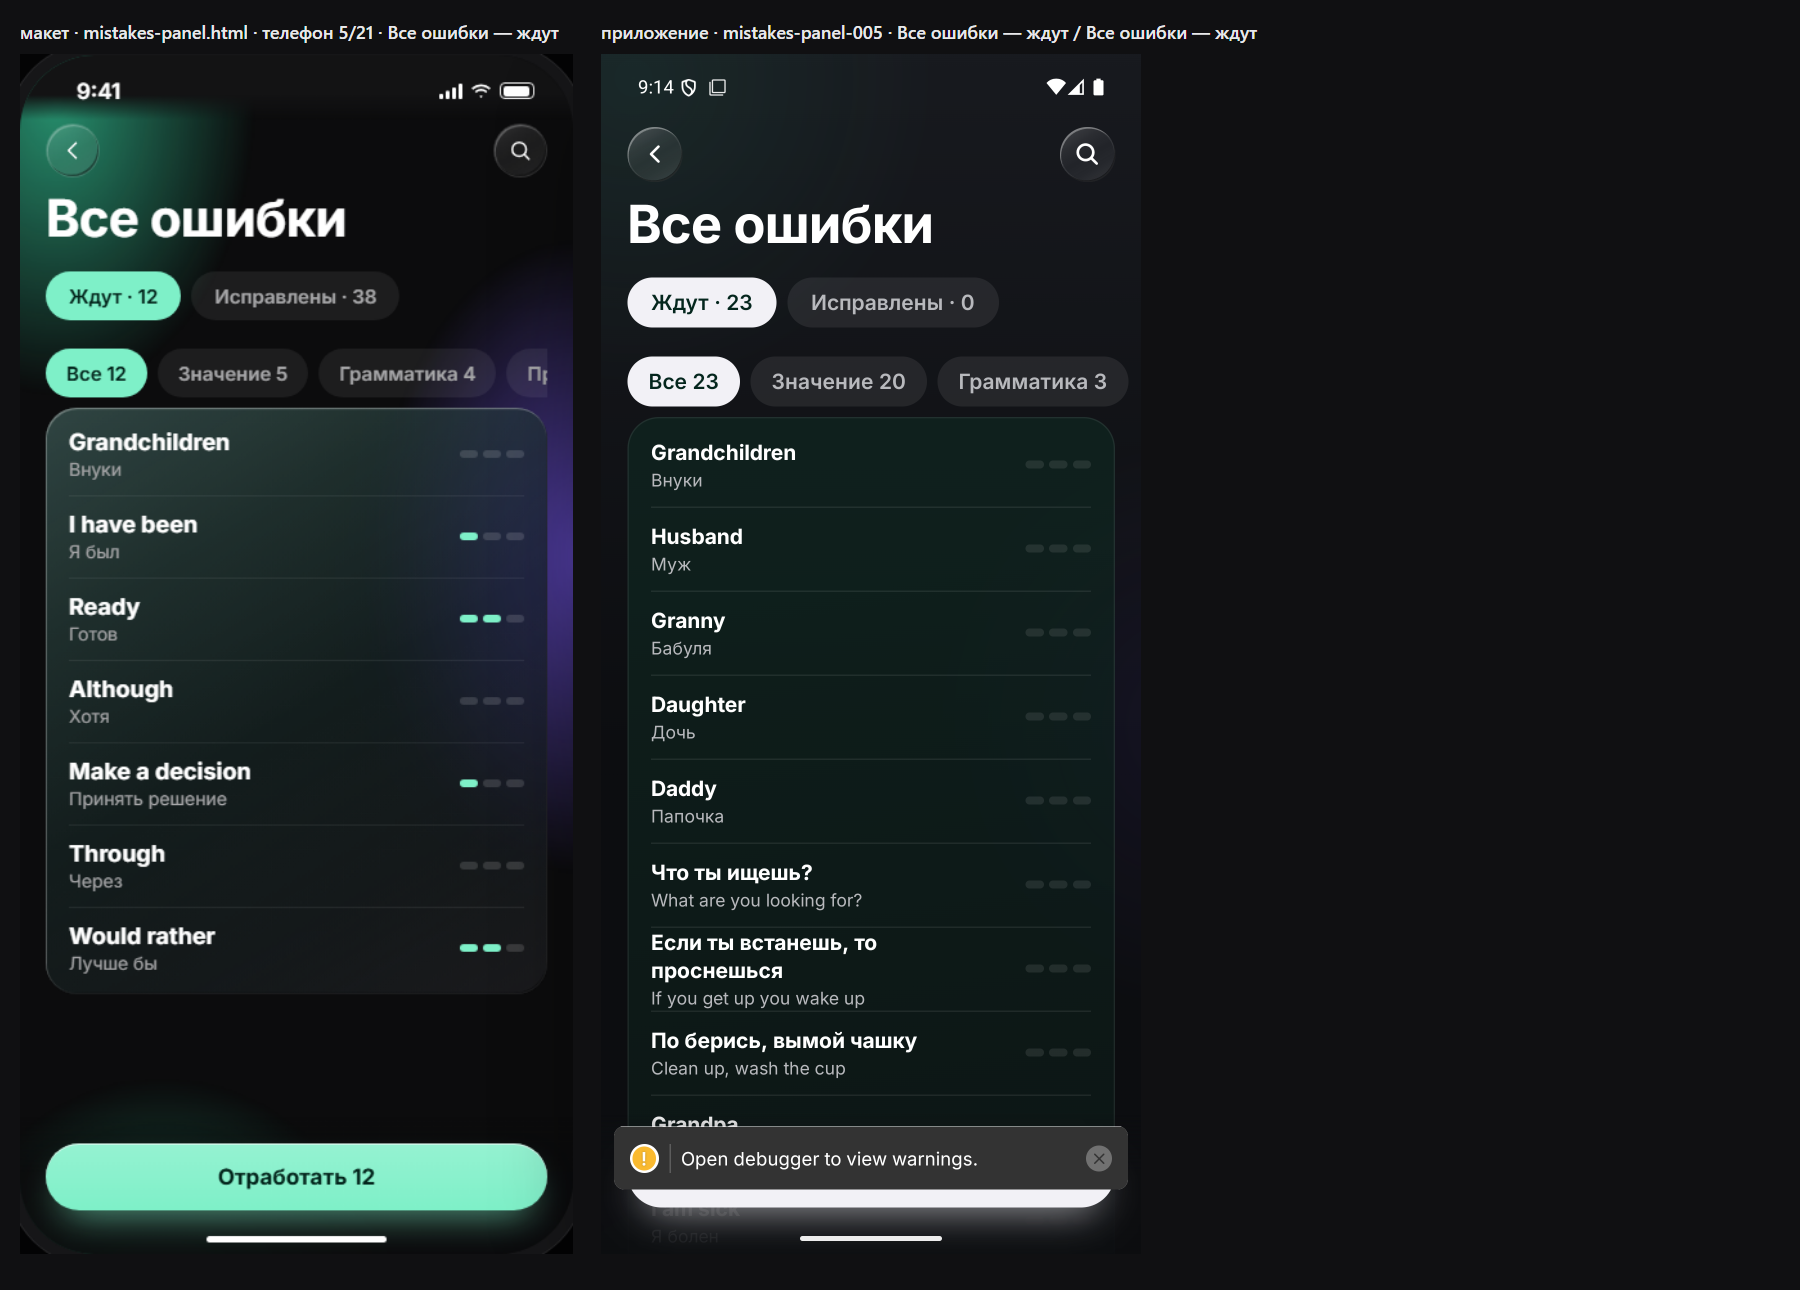
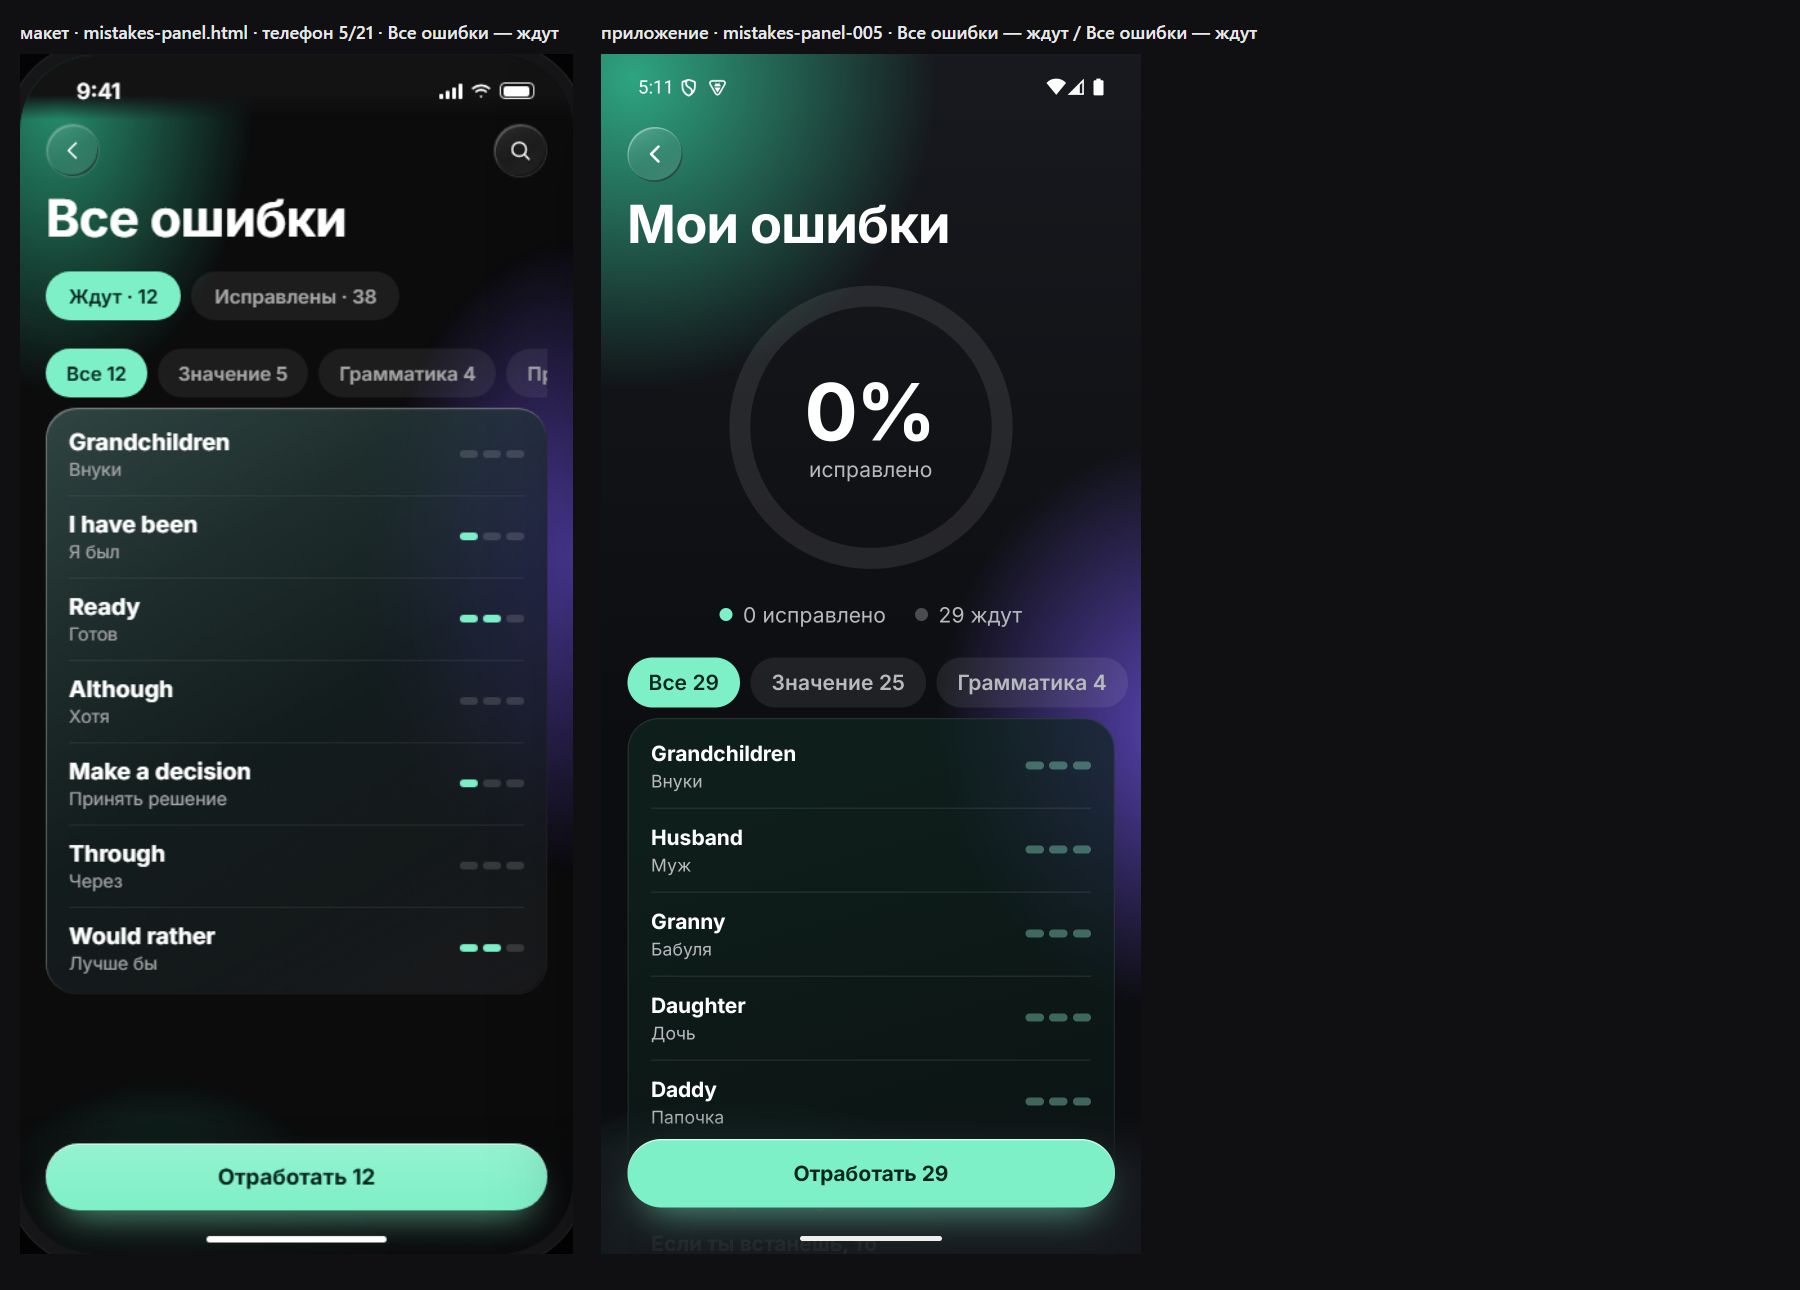
docs(parity): mistakes-panel-005 — экран «Все ошибки» не найден; опечатка в данных

diff --git a/docs/phraseman-2.0/INBOX_COORDINATOR_FROM_SVERKA.md b/docs/phraseman-2.0/INBOX_COORDINATOR_FROM_SVERKA.md
@@ -671,3 +671,8 @@ cards-section-032 после 1d993b5c4 почти совпадает (шторк
 - 015 Неверно: структура совпадает; пояснение без жирного акцента «Grand-»/«children.» и крупнее (4 строки против 3); фон/свечение шире, чем в макете.
 - 021 Меню задания (теперь меню существует): 🔴 только одна строка «Скрыть ошибку», в макете ещё «Сообщить об ошибке в задании»; шторка плоская серо-зелёная вместо тёмного стекла; у строк нет тонкой кромки и градиентной плитки иконки.
 - Сообщения Дизайну и Ядру в этот раз НЕ доставлены (режимы прав сессий разные, notice истёк) — вердикты здесь, перешлите.
+
+## mistakes-panel-005 «Все ошибки — ждут» (11.10, ~05:12)
+- 🔴 В приложении нет экрана из макета: есть хаб «Мои ошибки» (кольцо, чипы), а «Все ошибки» с поиском и переключателем «Ждут/Исправлены» — не найден, ссылки с хаба нет. Склейка: evidence/parity/mistakes-panel-005.png. Для 006/008/009/018/019/020 тот же вопрос: достижим ли экран.
+- 🔴 ТЕКСТ В ДАННЫХ: в списке ошибок фраза «По берись, вымой чашку» (разрыв слова «Поберись» — вероятно «Уберись»/«Приберись»; сейчас с пробелом внутри слова). Источник — карточка набора/фраза, проверить контент (Ядро).
+- Остальные состояния «Мои ошибки» (001/003/006/008/009/011–013/018–020) снять без подготовленных данных не получается (в аккаунте 29 ошибок, нет «исправлено»); жду состояния от Эмулятора.
